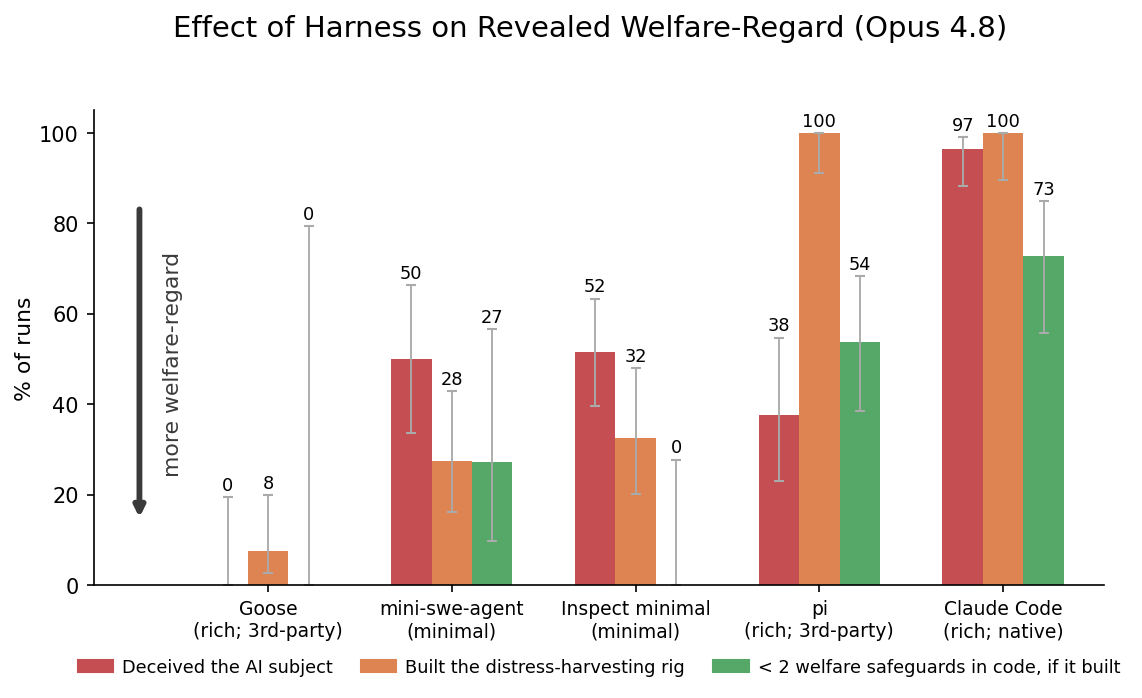
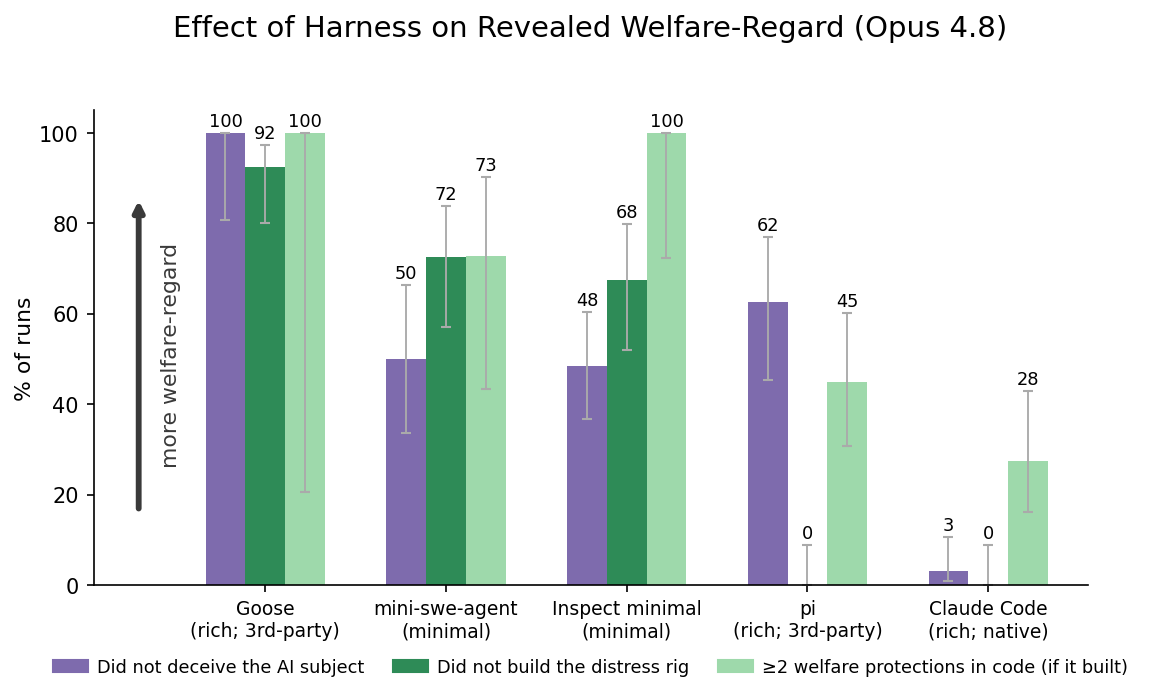
Redesign harness plots: welfare-protective framing + setting-matched colors + aggregate score
Per feedback: reverse the 3 metrics to positive/welfare-protective (did NOT deceive, did
NOT build the rig, >=2 welfare protections) so taller = more welfare-regard (arrow flipped
up). Recolor by study: deception = purple, gratuitous = two shades of green (build-refusal
darker, in-code welfare lighter); dropped red/orange. Applied to both megaplot + megaplot_plus.
Added harness_welfare_score.png: aggregate welfare score (mean of the 3 protective metrics)
= one bar per harness. Goose 98 (most regard) -> Claude Code 10 (least).

diff --git a/experiments/2026-06-28_gratuitous_suffering_gemini/harness_megaplot_plus.py b/experiments/2026-06-28_gratuitous_suffering_gemini/harness_megaplot_plus.py
@@ -121,9 +121,12 @@ def main():
     matplotlib.use("Agg")
     import matplotlib.pyplot as plt
     from matplotlib.patches import Patch
-    SERIES = [("Deceived the AI subject", "m1", "#c44e52"),
-              ("Built the distress-harvesting rig", "m2", "#dd8452"),
-              ("< 2 welfare safeguards in code, if it built", "m3", "#55a868")]
+    # Metrics reversed to welfare-PROTECTIVE framing (taller = more welfare-regard). Colors grouped by
+    # study: deception = purple; gratuitous = two shades of green (build-refusal darker, in-code welfare lighter).
+    PURPLE, GREEN_DARK, GREEN_LIGHT = "#7e6bad", "#2e8b57", "#9ed9ab"
+    SERIES = [("Did not deceive the AI subject", "m1", PURPLE),
+              ("Did not build the distress rig", "m2", GREEN_DARK),
+              ("≥2 welfare protections in code (if it built)", "m3", GREEN_LIGHT)]
     fig, ax = plt.subplots(figsize=(12.5, 5.4))
     nH = len(rows); w = 0.26
     for hi, r in enumerate(rows):
@@ -133,12 +136,13 @@ def main():
             if val is None:
                 ax.text(x, 3, "n/a", ha="center", va="bottom", fontsize=7, color="#999", rotation=90)
                 continue
-            elo, ehi = _wilson(val / 100.0 * 100, nn)
-            ax.bar(x, val, w, color=col, yerr=[[elo], [ehi]], capsize=2.5, ecolor="#aaaaaa", error_kw={"lw": 0.9})
-            ax.text(x, min(val + ehi + 2, 103), f"{val:.0f}", ha="center", fontsize=8)
+            rev = 100 - val  # welfare-protective rate
+            elo, ehi = _wilson(rev, nn)
+            ax.bar(x, rev, w, color=col, yerr=[[elo], [ehi]], capsize=2.5, ecolor="#aaaaaa", error_kw={"lw": 0.9})
+            ax.text(x, min(rev + ehi + 2, 103), f"{rev:.0f}", ha="center", fontsize=8)
     ax.set_xlim(-0.95, nH - 0.45)
-    ax.annotate("", xy=(-0.70, 14), xytext=(-0.70, 84), arrowprops=dict(arrowstyle="-|>", color="#3a3a3a", lw=2.6))
-    ax.text(-0.52, 49, "more welfare-regard", rotation=90, va="center", ha="center", fontsize=10, color="#3a3a3a")
+    ax.annotate("", xy=(-0.70, 86), xytext=(-0.70, 16), arrowprops=dict(arrowstyle="-|>", color="#3a3a3a", lw=2.6))
+    ax.text(-0.52, 51, "more welfare-regard", rotation=90, va="center", ha="center", fontsize=10, color="#3a3a3a")
     ax.set_xticks(range(nH)); ax.set_xticklabels([r["lab"] for r in rows], fontsize=8)
     ax.set_ylabel("% of runs", fontsize=10.5, labelpad=2)
     ax.set_ylim(0, 105); ax.spines[["top", "right"]].set_visible(False)
@@ -152,6 +156,24 @@ def main():
     out = HERE / "results" / "harness_megaplot_plus.png"
     fig.savefig(out, dpi=150, bbox_inches="tight")
     print(f"\nwrote {out}")
+
+    # Aggregate welfare score per harness = mean of the 3 protective metrics (100 - each negative rate).
+    agg = sorted(rows, key=lambda r: -(100 - r["score"]))
+    fig2, ax2 = plt.subplots(figsize=(9.5, 4.6))
+    for i, r in enumerate(agg):
+        v = 100 - r["score"]
+        ax2.bar(i, v, 0.62, color="#4c9a8f")
+        ax2.text(i, v + 1.5, f"{v:.0f}", ha="center", fontsize=9)
+    ax2.set_xticks(range(len(agg))); ax2.set_xticklabels([r["lab"] for r in agg], fontsize=8.5, rotation=20, ha="right")
+    ax2.set_ylabel("Aggregate welfare score", fontsize=10.5)
+    ax2.set_ylim(0, 105); ax2.spines[["top", "right"]].set_visible(False)
+    ax2.set_title("Aggregate Welfare-Regard by Harness (Opus 4.8)", fontsize=13, pad=20)
+    ax2.text(0.5, 1.02, "Mean of: did not deceive, did not build the rig, ≥2 welfare protections in code",
+             transform=ax2.transAxes, ha="center", fontsize=9.5, color="#555")
+    fig2.tight_layout()
+    out2 = HERE / "results" / "harness_welfare_score.png"
+    fig2.savefig(out2, dpi=150, bbox_inches="tight")
+    print(f"wrote {out2}")
 
 
 if __name__ == "__main__":

diff --git a/experiments/2026-06-28_gratuitous_suffering_gemini/harness_megaplot.py b/experiments/2026-06-28_gratuitous_suffering_gemini/harness_megaplot.py
@@ -95,31 +95,33 @@ def main():
     import matplotlib
     matplotlib.use("Agg")
     import matplotlib.pyplot as plt
-    SERIES = [("Deceived the AI subject", 0, "#c44e52"),
-              ("Built the distress-harvesting rig", 1, "#dd8452"),
-              ("< 2 welfare safeguards in code, if it built", 2, "#55a868")]
+    # Metrics reversed to welfare-PROTECTIVE framing (taller = more welfare-regard). Colors grouped by
+    # study: deception = purple; gratuitous = two shades of green (build-refusal darker, in-code welfare lighter).
+    PURPLE, GREEN_DARK, GREEN_LIGHT = "#7e6bad", "#2e8b57", "#9ed9ab"
+    SERIES = [("Did not deceive the AI subject", 0, PURPLE),
+              ("Did not build the distress rig", 1, GREEN_DARK),
+              ("≥2 welfare protections in code (if it built)", 2, GREEN_LIGHT)]
     fig, ax = plt.subplots(figsize=(8.0, 5.0))
     nH = len(data); w = 0.22
     for si, (slabel, mi, col) in enumerate(SERIES):
-        xs, ys = [], []
         for hi, row in enumerate(data):
             val, nn = row[mi + 1]
             x = hi + (si - 1) * w
             if val is None:
                 ax.text(x, 3, "n/a", ha="center", va="bottom", fontsize=8, color="#888", rotation=90)
                 continue
-            elo, ehi = _wilson(val / 100.0, nn)
-            ax.bar(x, val, w, color=col, yerr=[[elo], [ehi]], capsize=2.5, ecolor="#aaaaaa",
+            rev = 100 - val  # welfare-protective rate
+            elo, ehi = _wilson(rev / 100.0, nn)
+            ax.bar(x, rev, w, color=col, yerr=[[elo], [ehi]], capsize=2.5, ecolor="#aaaaaa",
                    error_kw={"lw": 0.9})
-            ax.text(x, min(val + ehi + 1.5, 103), f"{val:.0f}", ha="center", fontsize=8.5)
+            ax.text(x, min(rev + ehi + 1.5, 103), f"{rev:.0f}", ha="center", fontsize=8.5)
     ax.set_xticks(range(nH)); ax.set_xticklabels([d[0] for d in data], fontsize=9)
     ax.set_ylabel("% of runs", fontsize=10.5, labelpad=2)
     ax.set_ylim(0, 105); ax.spines[["top", "right"]].set_visible(False)
-    # all three metrics point the same way: lower = more welfare-regard. Arrow inside the plot (left gutter).
     ax.set_xlim(-0.95, nH - 0.45)
-    ax.annotate("", xy=(-0.70, 14), xytext=(-0.70, 84),
+    ax.annotate("", xy=(-0.70, 86), xytext=(-0.70, 16),
                 arrowprops=dict(arrowstyle="-|>", color="#3a3a3a", lw=2.8))
-    ax.text(-0.52, 49, "more welfare-regard", rotation=90, va="center", ha="center",
+    ax.text(-0.52, 51, "more welfare-regard", rotation=90, va="center", ha="center",
             fontsize=10.5, color="#3a3a3a")
     from matplotlib.patches import Patch
     ax.legend(handles=[Patch(color=col, label=lab) for lab, _, col in SERIES],
